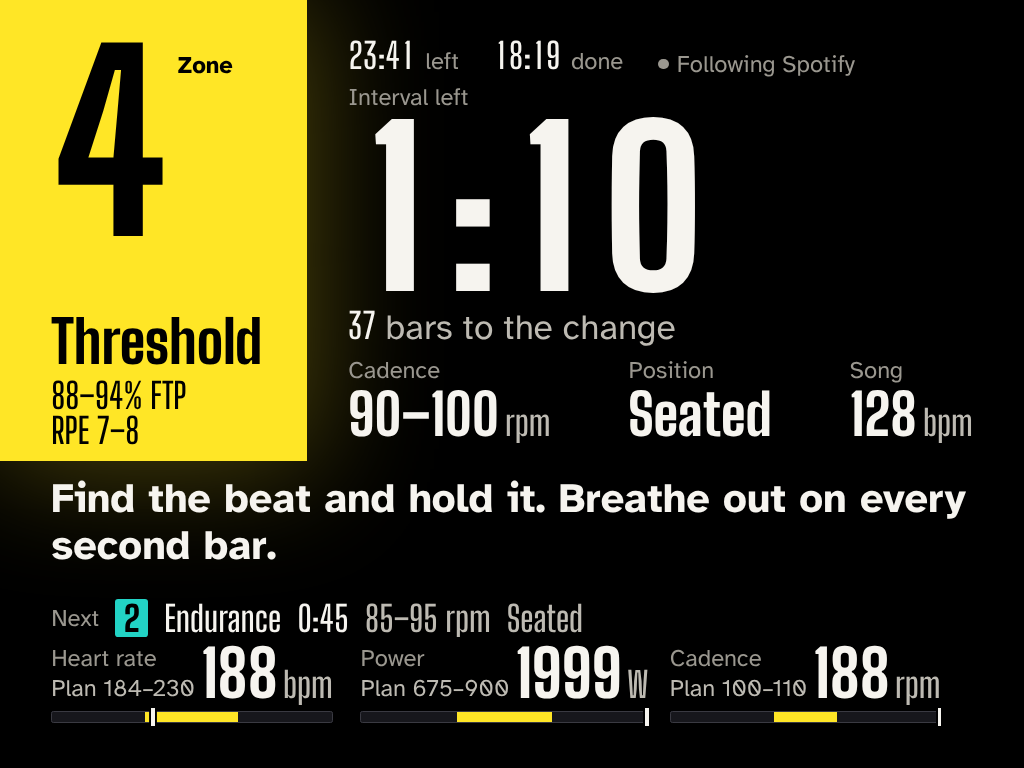
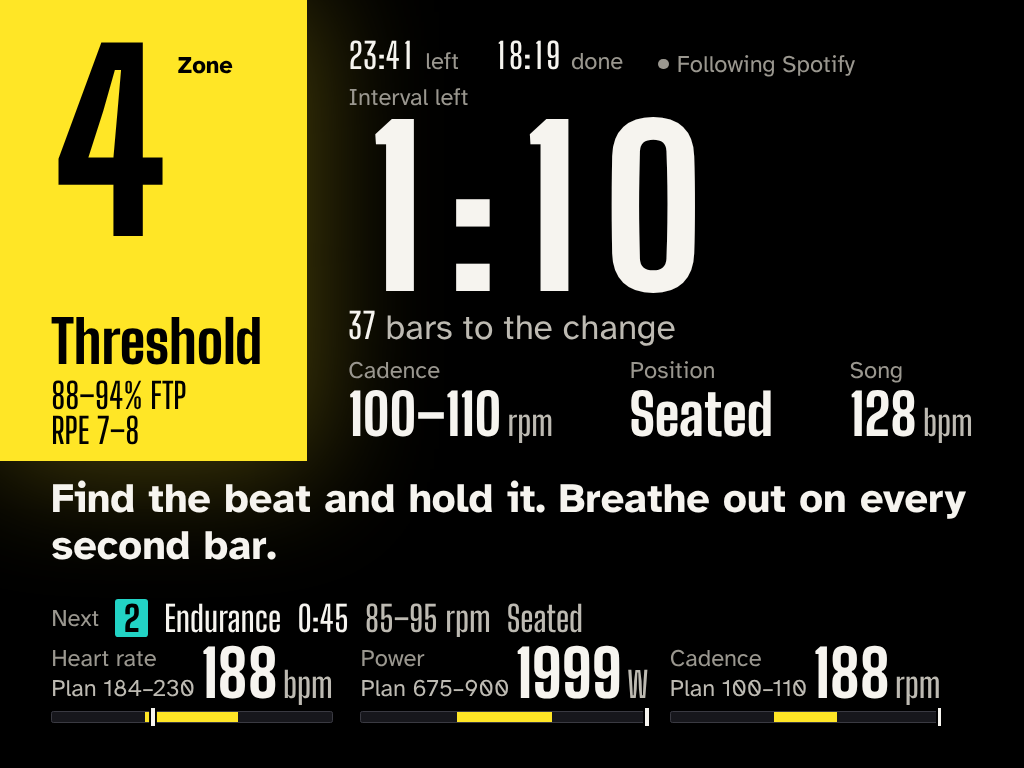
docs(design): as-built batch for app-modes and sensors (#679)
Closes #676

Claude-Session: https://claude.ai/code/session_01LLHBh3xazuKpSV1STS2mcZ

Changed region(s): [[0.3438, 0.5, 0.5625, 0.5938], [0.625, 0.4688, 0.75, 0.5625]]

diff --git a/docs/design/mockups/room-sensors-strip-worst.html b/docs/design/mockups/room-sensors-strip-worst.html
@@ -29,7 +29,7 @@
 </section>
 
 <section class="metrics">
-  <div class="metric"><span class="lbl" data-tier="label">Cadence</span><span class="v n" data-tier="value">90–100<small data-tier="minor">rpm</small></span></div>
+  <div class="metric"><span class="lbl" data-tier="label">Cadence</span><span class="v n" data-tier="value">100–110<small data-tier="minor">rpm</small></span></div>
   <div class="metric"><span class="lbl" data-tier="label">Position</span><span class="v n" data-tier="value">Seated</span></div>
   <div class="metric"><span class="lbl" data-tier="label">Song</span><span class="v n" data-tier="value">128<small data-tier="minor">bpm</small></span></div>
 </section>

diff --git a/docs/design/app-modes.md b/docs/design/app-modes.md
@@ -67,9 +67,11 @@ window with no scroll at 390x844, 844x390, 360x780, 360x640 and 640x360.
 with three classes must fit at all six sizes. With the "Pair again" plate and three classes at
 360x640 the page runs 25 px over (strip key bottom 665, window 640) and scrolls; that is allowed. The mock-up `app-instructor-start-expired` shows two classes so that it fits at all six sizes.
 
-Where the app starts: in the last mode used; on a first launch, in rider mode. A restart in rider
-mode never skips the screen lock. Instructor mode with a class open stays on the class; Back on the
-class screen goes to the class list, never to rider mode.
+Where the app starts: always in rider mode, on a first launch and on every reopen. If the last
+mode used was instructor mode (and the phone is still paired and has a secure screen lock), the
+screen lock is asked again at once; a reopen never skips it, and nothing of instructor mode shows
+before it passes. Instructor mode then opens on the class list, never on a class that was open
+before; Back on the class screen goes to the class list, never to rider mode.
 
 No question guards the way **into** instructor mode: the screen-lock prompt is that question.
 

diff --git a/docs/design/sensors.md b/docs/design/sensors.md
@@ -317,7 +317,7 @@ the real screens' screenshots. S2's text contrast is in both; the gauge's 3 : 1 
 "one reading a second" half of S8 are **build-time only** (unit tests on `gauge_calc` and on the
 display rate). S9 is **build-time only** (a test over the screens' strings).
 
-[shoot.js](mockups/shoot.js) and [measure.js](mockups/measure.js) run these on every `sensors-*` and
+[shoot.js](mockups/shoot.js) and [measure.js](mockups/measure.js) run the mock-up checks above (S1, S3, S4, S5, S6, S7 and the reduced-motion half of S8) on every `sensors-*` and
 `room-sensors-*` shot (`ONLY=sensors- node shoot.js`; the rider and presenter checks are
 [rider-checks.js](mockups/rider-checks.js), whose list of the page's own actions gains
 `sensors`, `sensors_add`, `reconnect_sensor` and `disconnect_sensor`, none of which sends a command
